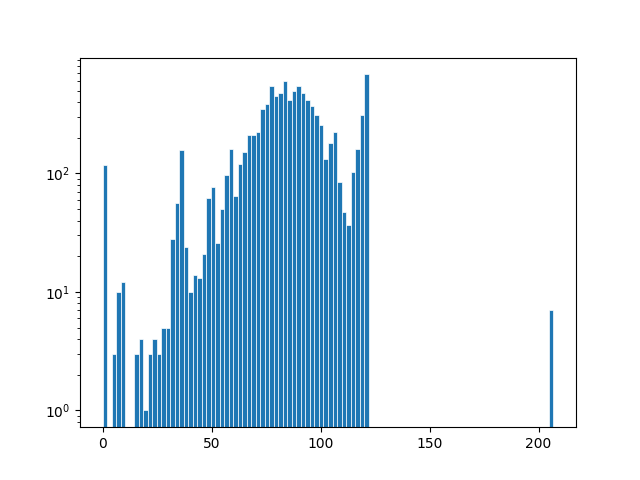
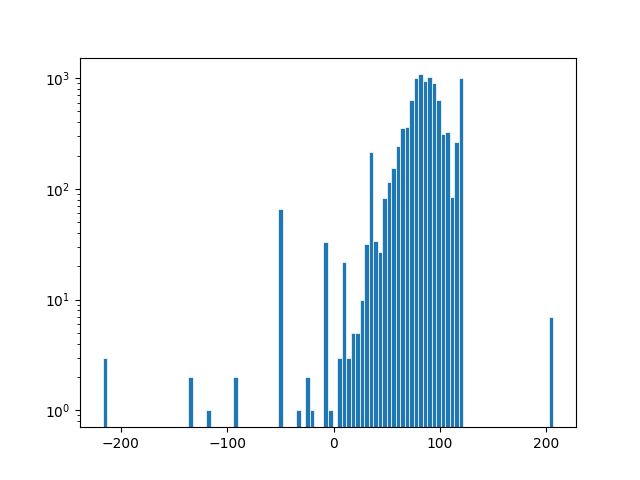
Refactor analyse.py

diff --git a/main/analyse.py b/main/analyse.py
@@ -1,13 +1,7 @@
 import textstat
 import pandas as pd
-import os
 import matplotlib.pyplot as plt
-import numpy as np
-
-sentence_count = np.array([])
-word_count = np.array([]) 
-text_complexity = np.array([])
-poly_syllabcount = np.array([]) 
+from analysis_core import apply, load_reviews_from_folder
 
 def saveplot(array, name):
     fig, ax = plt.subplots()
@@ -15,40 +9,10 @@ def saveplot(array, name):
     ax.set_yscale('log', base=10)
     plt.savefig(name)
 
-
-
-def analyse_data(df):
-    global sentence_count
-    global text_complexity
-    global poly_syllabcount
-    for row in df.itertuples():
-        text = row.review_body
-        try:
-            sentencecount = textstat.sentence_count(text)
-            textcomplexity = textstat.flesch_reading_ease(text)
-            polysyllabcount = textstat.polysyllabcount(text)
-        except:
-            sentencecount = 0
-            textcomplexity = 0
-            polysyllabcount = 0
-        sentence_count = np.append(sentence_count, sentencecount)
-        text_complexity = np.append(text_complexity, textcomplexity)
-        poly_syllabcount = np.append(poly_syllabcount, polysyllabcount)
-
-  
-r_folder = "./data"
-w_folder = "./data_cleaned"
-
-for filename in os.listdir(r_folder):
-    if filename.endswith(".tsv"):
-        tsv_input = pd.read_csv(r_folder + "/" + filename, sep='\t', nrows=5000)
-        print(filename)
-        analyse_data(tsv_input)
-
-        continue
-    else:
-        continue
-
+reviews = load_reviews_from_folder('./data', nrows=5000)
+sentence_count = apply(reviews, lambda review: textstat.sentence_count(review), 'review_body', exception_value=0)
+poly_syllabcount = apply(reviews, lambda review: textstat.polysyllabcount(review), 'review_body', exception_value=0)
+text_complexity = apply(reviews, lambda review: textstat.flesch_reading_ease(review), 'review_body', skip_on_exception=True)
 
 saveplot(sentence_count, "sentences")
 saveplot(text_complexity, "complexity" )

diff --git a/main/analysis_core.py b/main/analysis_core.py
@@ -1,0 +1,56 @@
+import pandas as pd
+import os
+
+"""
+Apply a function rowwise to a pandas dataframe
+
+label: get a label/datapoint from a row directly not the whole row
+exception_value: if the apply function throws an exception return a default value
+skip_on_exception: Skip rows, where the apply function throws an exception
+"""
+def apply(df, apply_function, label=None, exception_value=None, skip_on_exception=False):
+    def apply_function_with_exception_value(row):
+        try:
+            return apply_function(row)
+        except Exception as e:
+            return exception_value
+
+    def apply_function_with_exception_skip(row):
+        try:
+            return apply_function(row)
+        except Exception as e:
+            return None
+
+    if skip_on_exception:
+        a0 = apply_function_with_exception_skip
+    elif exception_value is not None:
+        a0 = apply_function_with_exception_value
+    else:
+        a0 = apply_function
+    
+    if label is not None:
+        a = lambda row: a0(row[label]) 
+    else:
+        a = a0
+    
+    results = df.apply(a, axis=1)
+
+    if skip_on_exception:
+        return results[results.notna()]
+    else:
+        return results
+
+
+def load_reviews_from_folder(path, nrows=None):
+    dfs = []
+    for filename in os.listdir(path):
+        if filename.endswith(".tsv"):
+            if nrows is None:
+                df = pd.read_csv(path + "/" + filename, sep='\t')
+            else:
+                df = pd.read_csv(path + "/" + filename, sep='\t', nrows=nrows)
+            dfs.append(df)
+        else:
+            continue
+
+    return pd.concat(dfs)

diff --git a/main/data.py b/main/data.py
@@ -8,6 +8,7 @@ for link in links.links:
     file_name=link.split('/')[-1][:-3]
     file_location=f'data/{file_name}'
     if not os.path.exists(file_location):
+        os.mkdir('data')
         file = wget.download(link, f'{file_location}.gz')
 
         with gzip.open(f'{file_location}.gz', 'rb') as f_in:
